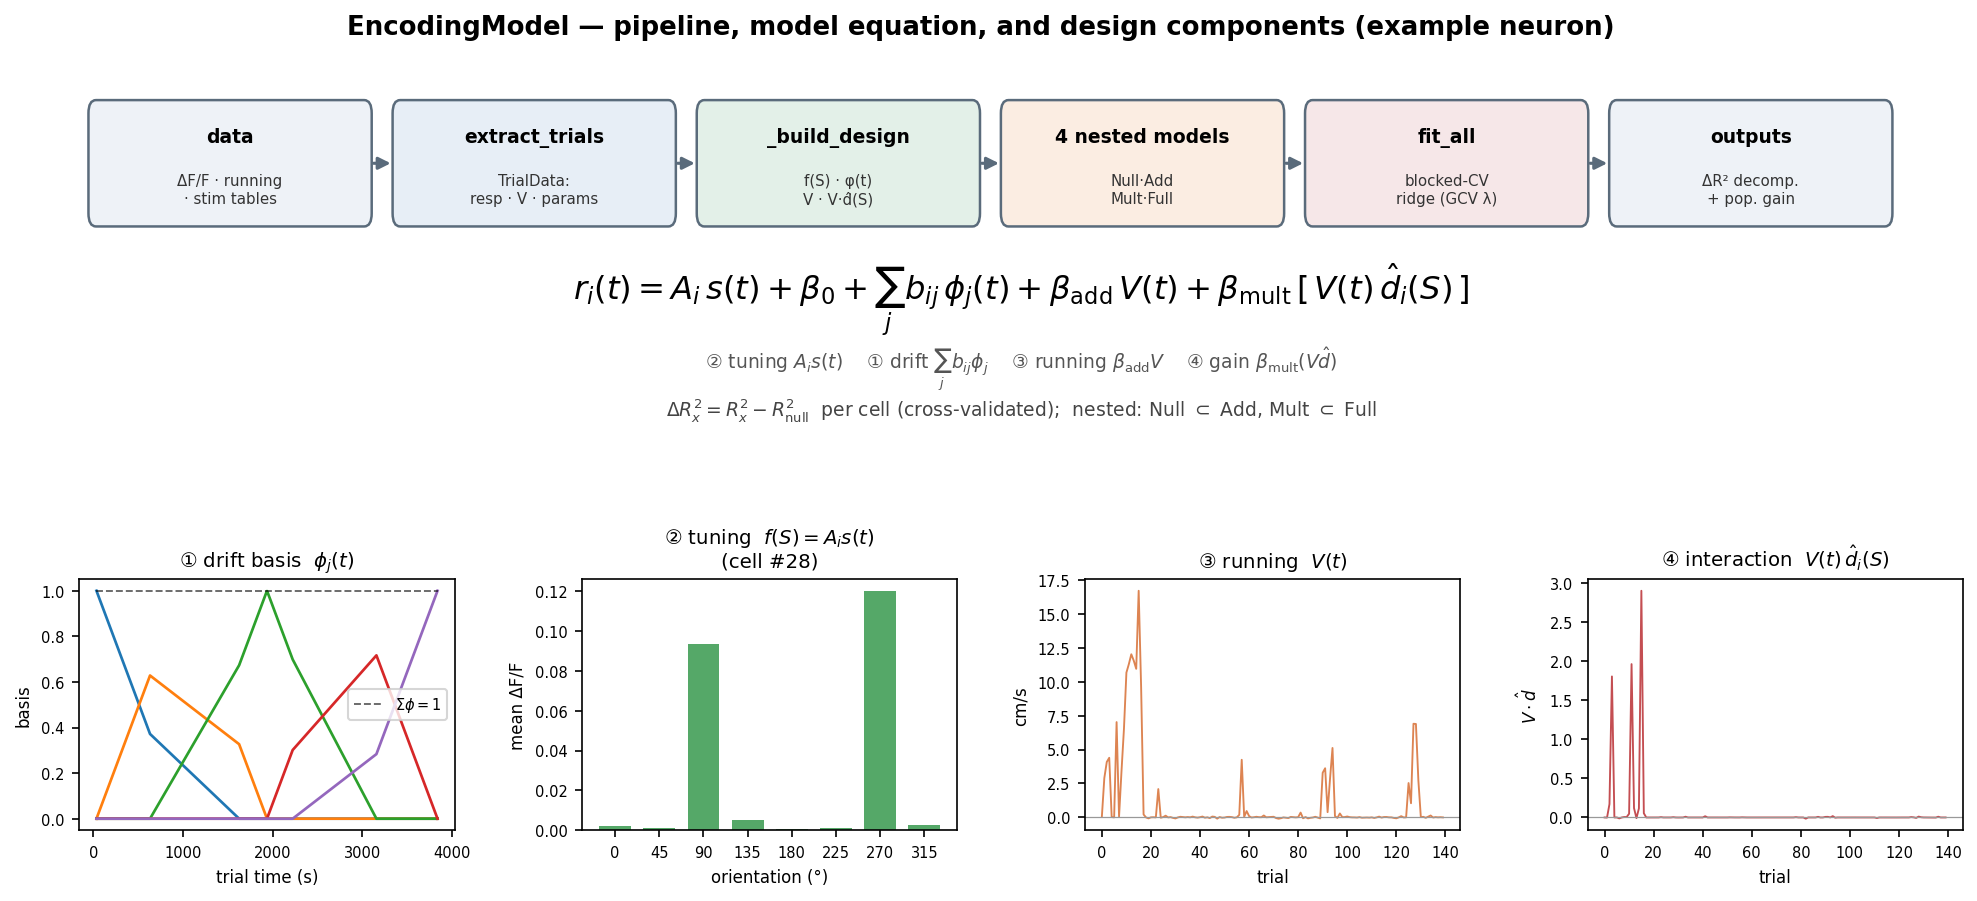
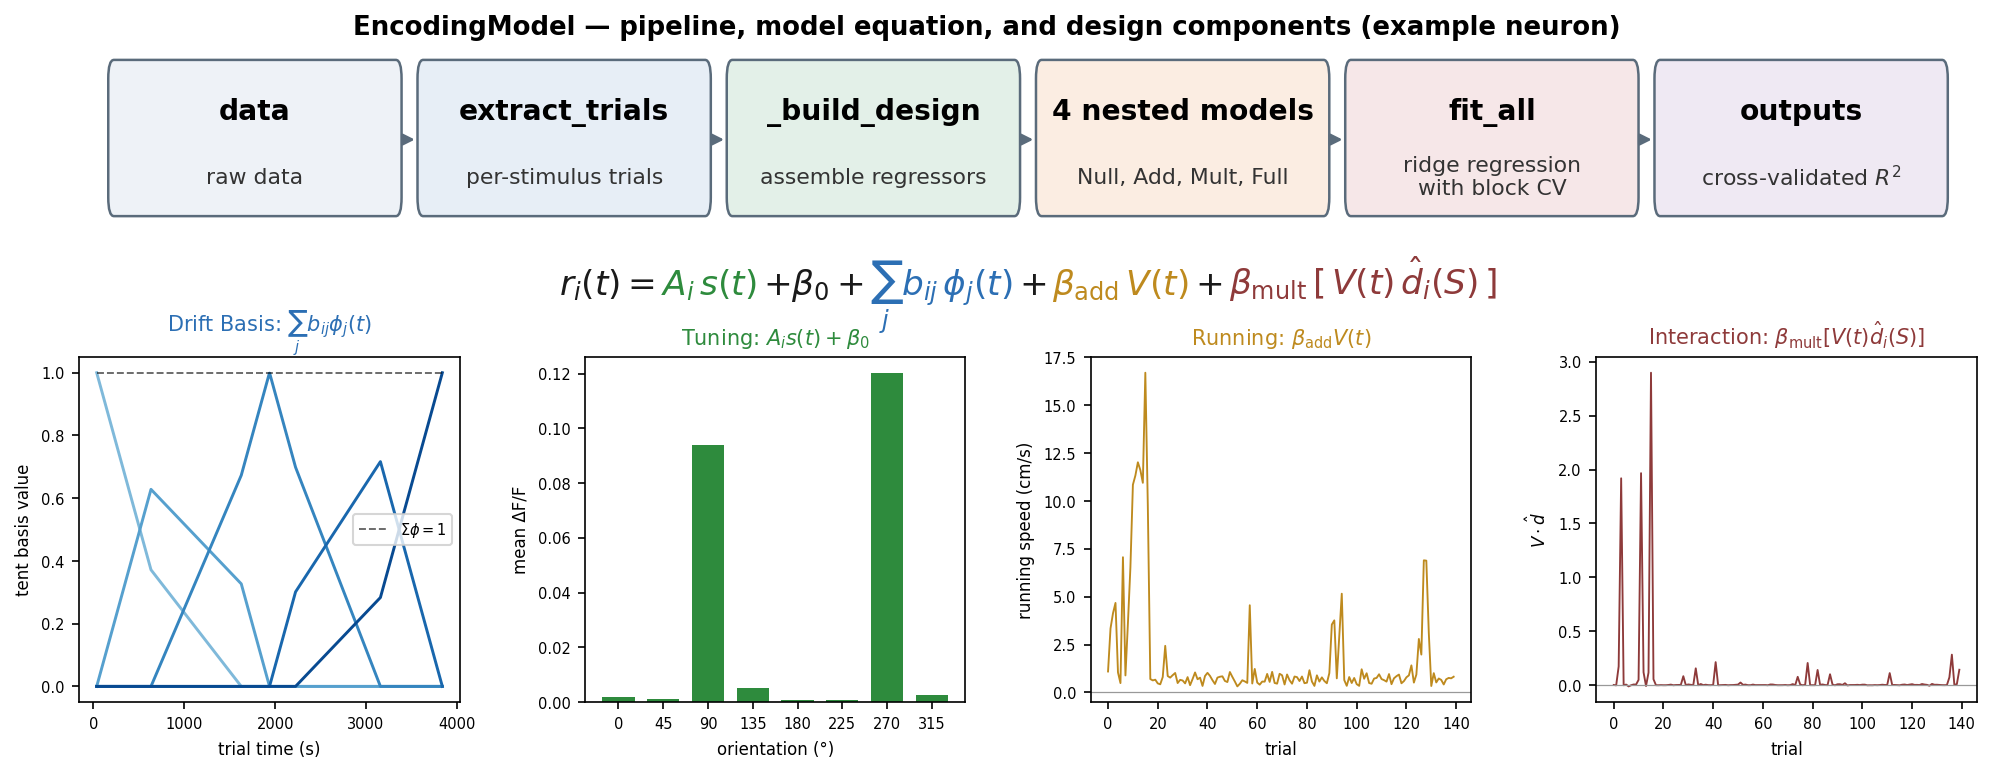
figure: restyle Fig. 1 (color-coded equation), compress layout, larger box text
Reworks doc/figures/pipeline_demo.png to a tighter three-band form: pipeline boxes,
a color-coded model equation (each term colored to match its design-component panel),
and the four REAL design blocks. Corrects the drift panel to the actual tent basis
(not Gaussians), fixes axis labels, compresses the boxes/panels, and enlarges the box text.

diff --git a/scripts/make_pipeline_demo.py b/scripts/make_pipeline_demo.py
@@ -1,5 +1,5 @@
-"""Demonstration figure: the EncodingModel pipeline + design components + the model
-equation (LaTeX), on real data (example neuron, drifting gratings).
+"""Demonstration figure (color-coded form): pipeline + color-coded model equation + the REAL
+design components (tent-basis drift, tuning, running, interaction) on real data.
 -> doc/figures/pipeline_demo.png
 """
 import warnings; warnings.filterwarnings("ignore")
@@ -8,11 +8,16 @@ import numpy as np
 import matplotlib; matplotlib.use("Agg")
 import matplotlib.pyplot as plt
 from matplotlib.patches import FancyBboxPatch, FancyArrowPatch
+from matplotlib.offsetbox import TextArea, HPacker, AnnotationBbox
 from matplotlib.gridspec import GridSpec
 import utils
 from utils import EncodingModel
 
 os.makedirs("doc/figures", exist_ok=True)
+
+# term colors (equation term <-> panel title <-> panel data)
+GREEN, BLUE, GOLD, DARKRED, BLACK = "#2E8B3D", "#2C6FB4", "#BE8A1E", "#8E3A3A", "#1a1a1a"
+
 data = utils.load_data()
 td = utils.extract_trials(data, "drifting_gratings", response_window=None)
 em = EncodingModel(td, n_basis=5)
@@ -25,75 +30,73 @@ ex = int(np.argmax(tun.max(1) - tun.min(1)))
 oris = np.unique(ori[np.isfinite(ori)])
 ori_tuning = np.array([R[ex, ori == o].mean() for o in oris])
 
-C1, C2, C3, C4 = "#4C72B0", "#55A868", "#DD8452", "#C44E52"
-fig = plt.figure(figsize=(13.5, 6.4))
-gs = GridSpec(2, 4, height_ratios=[1.05, 0.8], hspace=0.55, wspace=0.34,
-              left=0.055, right=0.985, top=0.9, bottom=0.13)
+fig = plt.figure(figsize=(13.6, 5.3))
+gs = GridSpec(3, 4, height_ratios=[0.46, 0.15, 0.85], hspace=0.16, wspace=0.33,
+              left=0.055, right=0.985, top=0.945, bottom=0.12)
 
-# ---------------- Top: pipeline schematic + LaTeX model equation ----------------
-axs = fig.add_subplot(gs[0, :]); axs.axis("off"); axs.set_xlim(0, 100); axs.set_ylim(0, 10)
+# ---------------- Band 1: pipeline schematic (boxes) ----------------
+axs = fig.add_subplot(gs[0, :]); axs.axis("off"); axs.set_xlim(0, 100); axs.set_ylim(0, 3)
 boxes = [
-    ("data", "ΔF/F · running\n· stim tables", "#EEF2F7"),
-    ("extract_trials", "TrialData:\nresp · V · params", "#E7EEF6"),
-    ("_build_design", "f(S) · φ(t)\nV · V·d̂(S)", "#E3F0E8"),
-    ("4 nested models", "Null·Add\nMult·Full", "#FBEDE2"),
-    ("fit_all", "blocked-CV\nridge (GCV λ)", "#F6E7E8"),
-    ("outputs", "ΔR² decomp.\n+ pop. gain", "#EEF2F7"),
+    ("data", "raw data", "#EEF2F7"),
+    ("extract_trials", "per-stimulus trials", "#E7EEF6"),
+    ("_build_design", "assemble regressors", "#E3F0E8"),
+    ("4 nested models", "Null, Add, Mult, Full", "#FBEDE2"),
+    ("fit_all", "ridge regression\nwith block CV", "#F6E7E8"),
+    ("outputs", "cross-validated $R^2$", "#EFE9F3"),
 ]
-xw, gap = 14.8, 1.35
+xw, gap = 15.3, 1.0
 for i, (title, sub, fc) in enumerate(boxes):
-    x = 0.6 + i * (xw + gap)
-    axs.add_patch(FancyBboxPatch((x, 6.0), xw, 3.6, boxstyle="round,pad=0.12,rounding_size=0.4",
+    x = 1.6 + i * (xw + gap)
+    axs.add_patch(FancyBboxPatch((x, 0.35), xw, 2.35, boxstyle="round,pad=0.08,rounding_size=0.3",
                                  fc=fc, ec="#5A6B7B", lw=1.2))
-    axs.text(x + xw / 2, 8.6, title, ha="center", va="center", fontsize=9, fontweight="bold")
-    axs.text(x + xw / 2, 7.0, sub, ha="center", va="center", fontsize=7.2, color="#333")
+    axs.text(x + xw / 2, 1.95, title, ha="center", va="center", fontsize=13.5, fontweight="bold")
+    axs.text(x + xw / 2, 0.9, sub, ha="center", va="center", fontsize=10.5, color="#333")
     if i < len(boxes) - 1:
-        axs.add_patch(FancyArrowPatch((x + xw, 7.8), (x + xw + gap, 7.8),
-                                      arrowstyle="-|>", mutation_scale=12, lw=1.5, color="#5A6B7B"))
+        axs.add_patch(FancyArrowPatch((x + xw, 1.5), (x + xw + gap, 1.5),
+                                      arrowstyle="-|>", mutation_scale=11, lw=1.4, color="#5A6B7B"))
 
-# main model equation (Full model), LaTeX via mathtext
-eq = (r"$r_i(t) = A_i\,s(t) + \beta_0 + \sum_j b_{ij}\,\phi_j(t)"
-      r" + \beta_{\mathrm{add}}\,V(t) + \beta_{\mathrm{mult}}\,[\,V(t)\,\hat{d}_i(S)\,]$")
-axs.text(50, 3.7, eq, ha="center", va="center", fontsize=15.5)
-axs.text(50, 1.55,
-         r"② tuning $A_i s(t)$    ① drift $\sum_j b_{ij}\phi_j$    "
-         r"③ running $\beta_{\mathrm{add}}V$    ④ gain $\beta_{\mathrm{mult}}(V\hat{d})$",
-         ha="center", va="center", fontsize=9, color="#555")
-axs.text(50, 0.3,
-         r"$\Delta R^2_x = R^2_x - R^2_{\mathrm{null}}$  per cell (cross-validated);  "
-         r"nested: Null $\subset$ Add, Mult $\subset$ Full",
-         ha="center", va="center", fontsize=9, color="#444")
+# ---------------- Band 2: color-coded model equation (HPacker of colored segments) ----------------
+axe = fig.add_subplot(gs[1, :]); axe.axis("off"); axe.set_xlim(0, 1); axe.set_ylim(0, 1)
+segs = [(r"$r_i(t) = $", BLACK), (r"$A_i\,s(t)$", GREEN), (r"$ + \beta_0 + $", BLACK),
+        (r"$\sum_j b_{ij}\,\phi_j(t)$", BLUE), (r"$ + $", BLACK),
+        (r"$\beta_{\mathrm{add}}\,V(t)$", GOLD), (r"$ + $", BLACK),
+        (r"$\beta_{\mathrm{mult}}\,[\,V(t)\,\hat{d}_i(S)\,]$", DARKRED)]
+children = [TextArea(t, textprops=dict(color=c, fontsize=16.5)) for t, c in segs]
+eq = HPacker(children=children, align="baseline", pad=0, sep=3)
+axe.add_artist(AnnotationBbox(eq, (0.5, 0.5), xycoords=axe.transAxes, frameon=False,
+                              box_alignment=(0.5, 0.5), pad=0))
 
-# ---------------- Bottom: real design components (example cell), compressed ----------------
-a = fig.add_subplot(gs[1, 0])
+# ---------------- Bottom: REAL design components (corrected) ----------------
+blues = plt.cm.Blues(np.linspace(0.45, 0.9, drift.shape[1]))
+a = fig.add_subplot(gs[2, 0])
 for j in range(drift.shape[1]):
-    a.plot(tvec, drift[:, j], lw=1.3)
+    a.plot(tvec, drift[:, j], lw=1.4, color=blues[j])
 a.plot(tvec, drift.sum(1), "k--", lw=0.9, alpha=0.6, label=r"$\Sigma\phi=1$")
-a.set_title("① drift basis  $\\phi_j(t)$", fontsize=9.5)
-a.set_xlabel("trial time (s)", fontsize=8); a.set_ylabel("basis", fontsize=8)
+a.set_title(r"Drift Basis: $\sum_j b_{ij}\phi_j(t)$", fontsize=10, color=BLUE)
+a.set_xlabel("trial time (s)", fontsize=8); a.set_ylabel("tent basis value", fontsize=8)
 a.legend(fontsize=7, loc="center right"); a.tick_params(labelsize=7)
 
-b = fig.add_subplot(gs[1, 1])
-b.bar(np.arange(len(oris)), ori_tuning, color=C2, width=0.72)
+b = fig.add_subplot(gs[2, 1])
+b.bar(np.arange(len(oris)), ori_tuning, color=GREEN, width=0.72)
 b.set_xticks(np.arange(len(oris))); b.set_xticklabels([f"{int(o)}" for o in oris], fontsize=7)
-b.set_title(f"② tuning  $f(S)=A_i s(t)$\n(cell #{ex})", fontsize=9.5)
+b.set_title(r"Tuning: $A_i s(t) + \beta_0$", fontsize=10, color=GREEN)
 b.set_xlabel("orientation (°)", fontsize=8); b.set_ylabel("mean ΔF/F", fontsize=8)
 b.axhline(0, color="0.6", lw=0.6); b.tick_params(labelsize=7)
 
 n = min(140, len(V))
-c = fig.add_subplot(gs[1, 2])
-c.plot(np.arange(n), V[:n], color=C3, lw=0.9)
+c = fig.add_subplot(gs[2, 2])
+c.plot(np.arange(n), V[:n], color=GOLD, lw=0.9)
 c.axhline(0, color="0.6", lw=0.6)
-c.set_title("③ running  $V(t)$", fontsize=9.5)
-c.set_xlabel("trial", fontsize=8); c.set_ylabel("cm/s", fontsize=8); c.tick_params(labelsize=7)
+c.set_title(r"Running: $\beta_{\mathrm{add}} V(t)$", fontsize=10, color=GOLD)
+c.set_xlabel("trial", fontsize=8); c.set_ylabel("running speed (cm/s)", fontsize=8); c.tick_params(labelsize=7)
 
-d = fig.add_subplot(gs[1, 3])
-d.plot(np.arange(n), (V * dhat[ex])[:n], color=C4, lw=0.9)
+d = fig.add_subplot(gs[2, 3])
+d.plot(np.arange(n), (V * dhat[ex])[:n], color=DARKRED, lw=0.9)
 d.axhline(0, color="0.6", lw=0.6)
-d.set_title(r"④ interaction  $V(t)\,\hat{d}_i(S)$", fontsize=9.5)
+d.set_title(r"Interaction: $\beta_{\mathrm{mult}}[V(t)\hat{d}_i(S)]$", fontsize=10, color=DARKRED)
 d.set_xlabel("trial", fontsize=8); d.set_ylabel(r"$V\cdot\hat{d}$", fontsize=8); d.tick_params(labelsize=7)
 
 fig.suptitle("EncodingModel — pipeline, model equation, and design components (example neuron)",
-             fontsize=12.5, fontweight="bold", y=0.98)
+             fontsize=12.5, fontweight="bold", y=0.985)
 fig.savefig("doc/figures/pipeline_demo.png", dpi=150, bbox_inches="tight")
 print(f"wrote doc/figures/pipeline_demo.png  (cell #{ex}, {R.shape[1]} trials, {len(conds)} conditions)")